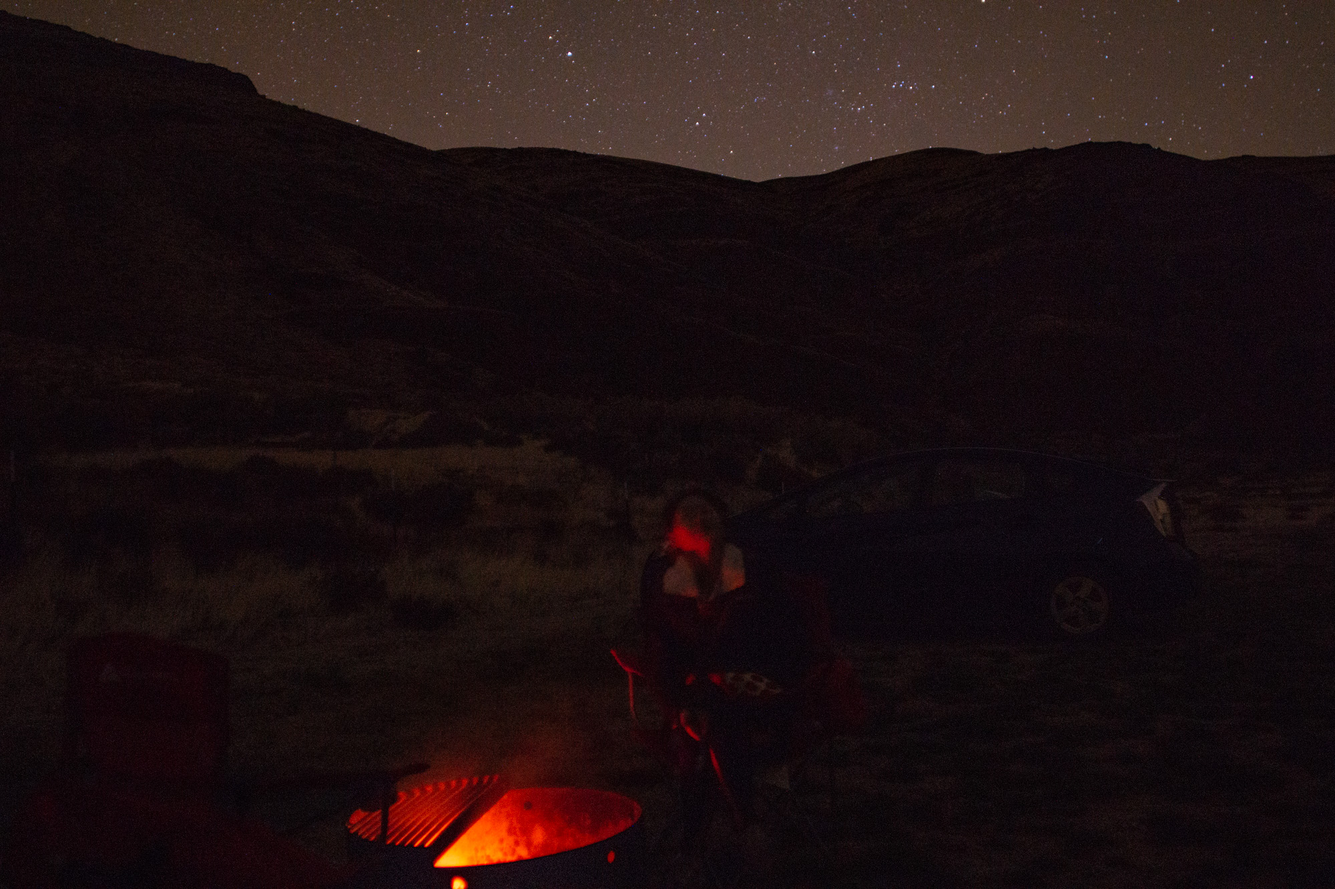
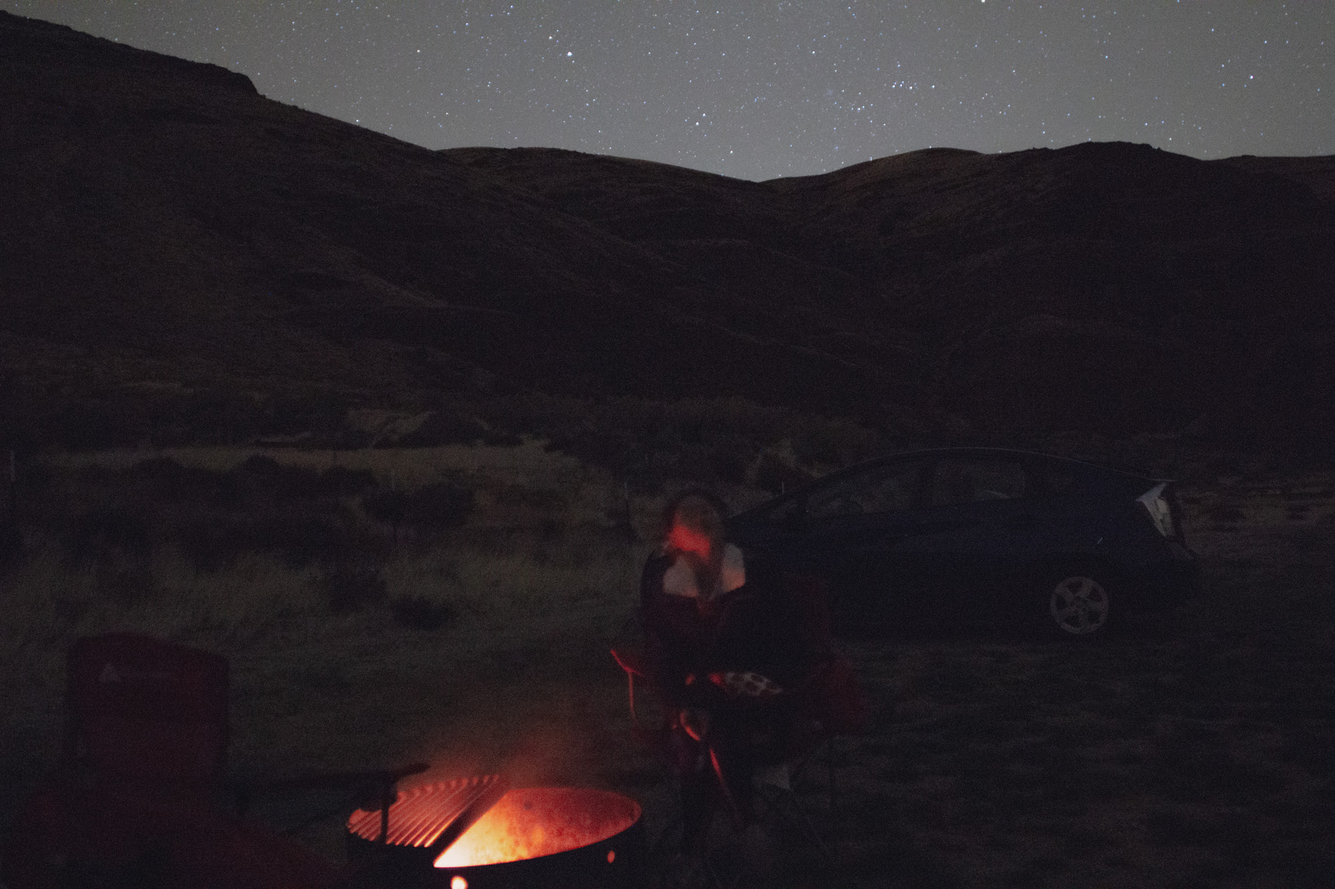
Updated photos and added content to blog post

diff --git a/_includes/image.html b/_includes/image.html
@@ -1,0 +1,4 @@
+<figure class="image">
+  <img src="{{ include.url }}" alt="{{ include.description }}">
+  <figcaption>{{ include.description }}</figcaption>
+</figure>

diff --git a/_posts/2019-10-25-cottonwood-canyon.md b/_posts/2019-10-25-cottonwood-canyon.md
@@ -5,11 +5,11 @@ featured_image: '/images/photos/DSC08066.jpg'
 excerpt: Camping and stargazing with friends in eastern Oregon.
 ---
 
-{% include image.html url="/images/photos/DSC08003.jpg" description="Long-exposure shot of a laser pointer in the night sky." %}
+{% include image.html url="/images/photos/DSC07994.jpg" description="Three 15-second shots of part of the milky way stacked together using photoshop to reduce noise. Edited for color and noise reduction." %}
 
-Cottonwood Canyon is about a 3-hour drive from Portland, OR. Located deep in the Columbia River Gorge in Eastern Oregon, this isolated site is ideal for hiking, rafting, fishing, and many other activities. I chose this site because of its lack of proximity to any major cities and other sources of light pollution, making it an ideal spot to go stargazing on a new moon.
+Cottonwood Canyon is about a 3-hour drive from Portland, OR. Located deep in the Columbia River Gorge in Eastern Oregon, this isolated site is ideal for hiking, rafting, fishing, and many other activities. I chose this site because of its lack of proximity to any major cities and other sources of light pollution, making it an ideal spot to go stargazing in the days surrounding a new moon.
 
-On this trip I invited my friends Shelby and Jeff, as well as my girlfriend Allie. After setting up camp in the dark we decided to start a fire and make burritos filled with vegetarian meat, eggs, spinach, onions, and some spices. Having a cast-iron pan was extremely useful for this because we were able to set it directly in the fire to cook. 
+On this trip I invited my girlfriend Allie as well as my friends Shelby and Jeff. After setting up camp in the dark we decided to start a fire and make burritos filled with vegetarian meat, eggs, spinach, onions, and some spices. Having a cast-iron pan was extremely useful for this because we were able to set it directly in the fire to cook. 
 
 Jeff was extremely entertained with the laser pointer he brought and with it we were able to point to stars and planets with extreme precision. 
 
@@ -23,10 +23,13 @@ Pictured below are scenes from the drive there.
 
 ... And pictured below this are scenes from Cottonwood Canyon.
 
+{% include image.html url="/images/photos/DSC08014.jpg" description="A group of Bighorn sheep ewes passes by camp in the morning." %}
+
 <div class="gallery" data-columns="3">
+    <img src="/images/photos/DSC08005.jpg">
+    <img src="/images/photos/DSC07999.jpg">
+    <img src="/images/photos/DSC08003.jpg">
     <img src="/images/photos/DSC08074.jpg">
     <img src="/images/photos/DSC08075.jpg">
     <img src="/images/photos/DSC08001.jpg">
-</div>
-
-
+<div>
